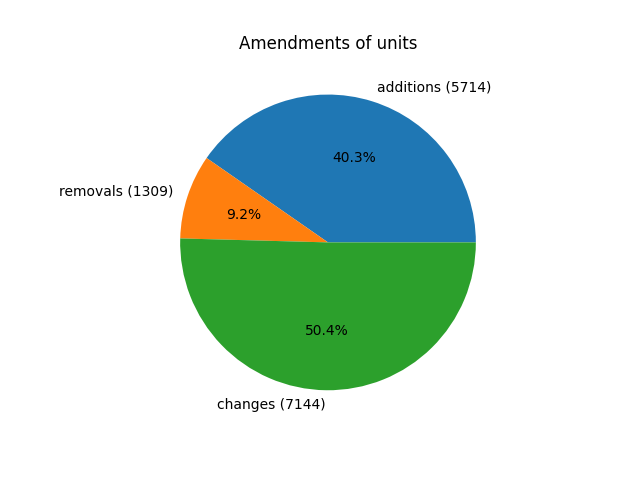
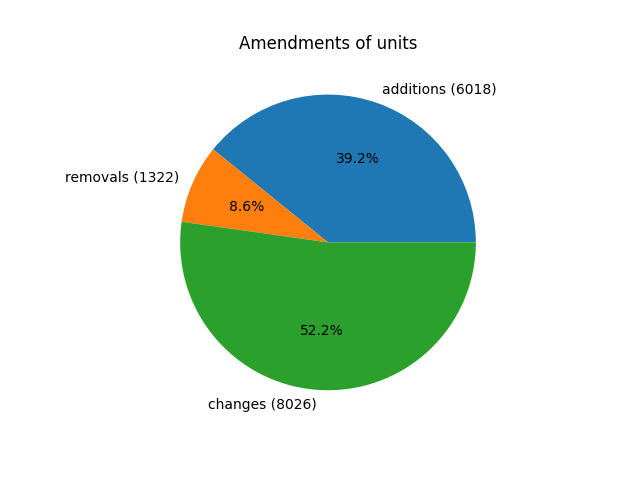
[1] small improvements

diff --git a/1_regex/inflectional_word_counter_main.py b/1_regex/inflectional_word_counter_main.py
@@ -31,19 +31,19 @@ def main():
     print('Words with "ustaw" infix:')
     print(count_by_regex(acts(), r'ustaw[\w]*'))
 
-    ustaw_ctr = count_by_regex(acts(), r'(ustaw)(\b|a|ą|ach|ami|ie|om|y)')
+    ustaw_ctr = count_by_regex(acts(), r'(ustaw)(\b|a|ą|ach|ami|ę|ie|om|y)')
     print('All forms from the word "ustawa":')
     print(ustaw_ctr)
     ustaw_total = np.sum(list(ustaw_ctr.values()))
     print(f'Total count: {ustaw_total}')
 
-    ustaw_followed_by_ctr = count_by_regex(acts(), r'(ustaw)(\b|a|ą|ach|ami|ie|om|y)(?= z dnia)')
+    ustaw_followed_by_ctr = count_by_regex(acts(), r'(ustaw)(\b|a|ą|ach|ami|ę|ie|om|y)(?= z dnia)')
     print('All forms from the word "ustawa" followed by "z dnia":')
     print(ustaw_followed_by_ctr)
     ustaw_followed_by_total = np.sum(list(ustaw_followed_by_ctr.values()))
     print(f'Total count: {ustaw_followed_by_total}')
 
-    ustaw_not_followed_by_ctr = count_by_regex(acts(), r'(ustaw)(\b|a|ą|ach|ami|ie|om|y)(?! z dnia)')
+    ustaw_not_followed_by_ctr = count_by_regex(acts(), r'(ustaw)(\b|a|ą|ach|ami|ę|ie|om|y)(?! z dnia)')
     print('All forms from the word "ustawa" not followed by "z dnia":')
     print(ustaw_not_followed_by_ctr)
     ustaw_not_followed_by_total = np.sum(list(ustaw_not_followed_by_ctr.values()))
@@ -52,7 +52,7 @@ def main():
     print(f'Check: {ustaw_total} =?= {ustaw_followed_by_total} + {ustaw_not_followed_by_total} = '
           f'{ustaw_followed_by_total + ustaw_not_followed_by_total}')
 
-    ustaw_not_following_ctr = count_by_regex(acts(), r'(?<!o zmianie )(ustaw)(\b|a|ą|ach|ami|ie|om|y)')
+    ustaw_not_following_ctr = count_by_regex(acts(), r'(?<!o zmianie )(ustaw)(\b|a|ą|ach|ami|ę|ie|om|y)')
     print('All forms from the word "ustawa" not following "o zmianie":')
     print(ustaw_not_following_ctr)
     ustaw_not_following_total = np.sum(list(ustaw_not_following_ctr.values()))

diff --git a/1_regex/by_phrase_counter.py b/1_regex/by_phrase_counter.py
@@ -12,13 +12,13 @@ class ByPhraseUnitCounter:
         return global_counter
 
     def count_additions(self, acts) -> Counter:
-        return self.count_by_regex_total(acts, r'dodaje się ([\w§]+)')
+        return self.count_by_regex_total(acts, r'dodaje[\s]+się[\s]+([\w§]+)')
 
     def count_removals(self, acts) -> Counter:
-        return self.count_by_regex_total(acts, r'skreśla się ([\w§]+)')
+        return self.count_by_regex_total(acts, r'skreśla[\s]+się[\s]+([\w§]+)')
 
     def count_changes(self, acts) -> Counter:
-        return self.count_by_regex_total(acts, r'([\w§]+)\.* \d+ otrzymuje brzmienie')
+        return self.count_by_regex_total(acts, r'([\w§]+)\.*[\s]+\d+[\s]+otrzymuje brzmienie')
 
     def count_by_regex_by_year(self, acts, years, reg) -> {int: Counter}:
         p = regex.compile(reg)
@@ -29,10 +29,10 @@ class ByPhraseUnitCounter:
         return year_counter
 
     def count_additions_by_year(self, acts, years) -> {int: Counter}:
-        return self.count_by_regex_by_year(acts, years, r'dodaje się ([\w§]+)')
+        return self.count_by_regex_by_year(acts, years, r'dodaje[\s]+się[\s]+([\w§]+)')
 
     def count_removals_by_year(self, acts, years) -> {int: Counter}:
-        return self.count_by_regex_by_year(acts, years, r'skreśla się ([\w§]+)')
+        return self.count_by_regex_by_year(acts, years, r'skreśla[\s]+się[\s]+([\w§]+)')
 
     def count_changes_by_year(self, acts, years) -> {int: Counter}:
-        return self.count_by_regex_by_year(acts, years, r'([\w§]+)\.* \d+ otrzymuje brzmienie')
+        return self.count_by_regex_by_year(acts, years, r'([\w§]+)\.*[\s]+\d+[\s]+otrzymuje brzmienie')

diff --git a/1_regex/main.py b/1_regex/main.py
@@ -2,5 +2,5 @@ import by_phrase_counter_main
 import inflectional_word_counter_main
 
 if __name__ == '__main__':
-    # by_phrase_counter_main.main()
+    by_phrase_counter_main.main()
     inflectional_word_counter_main.main()
